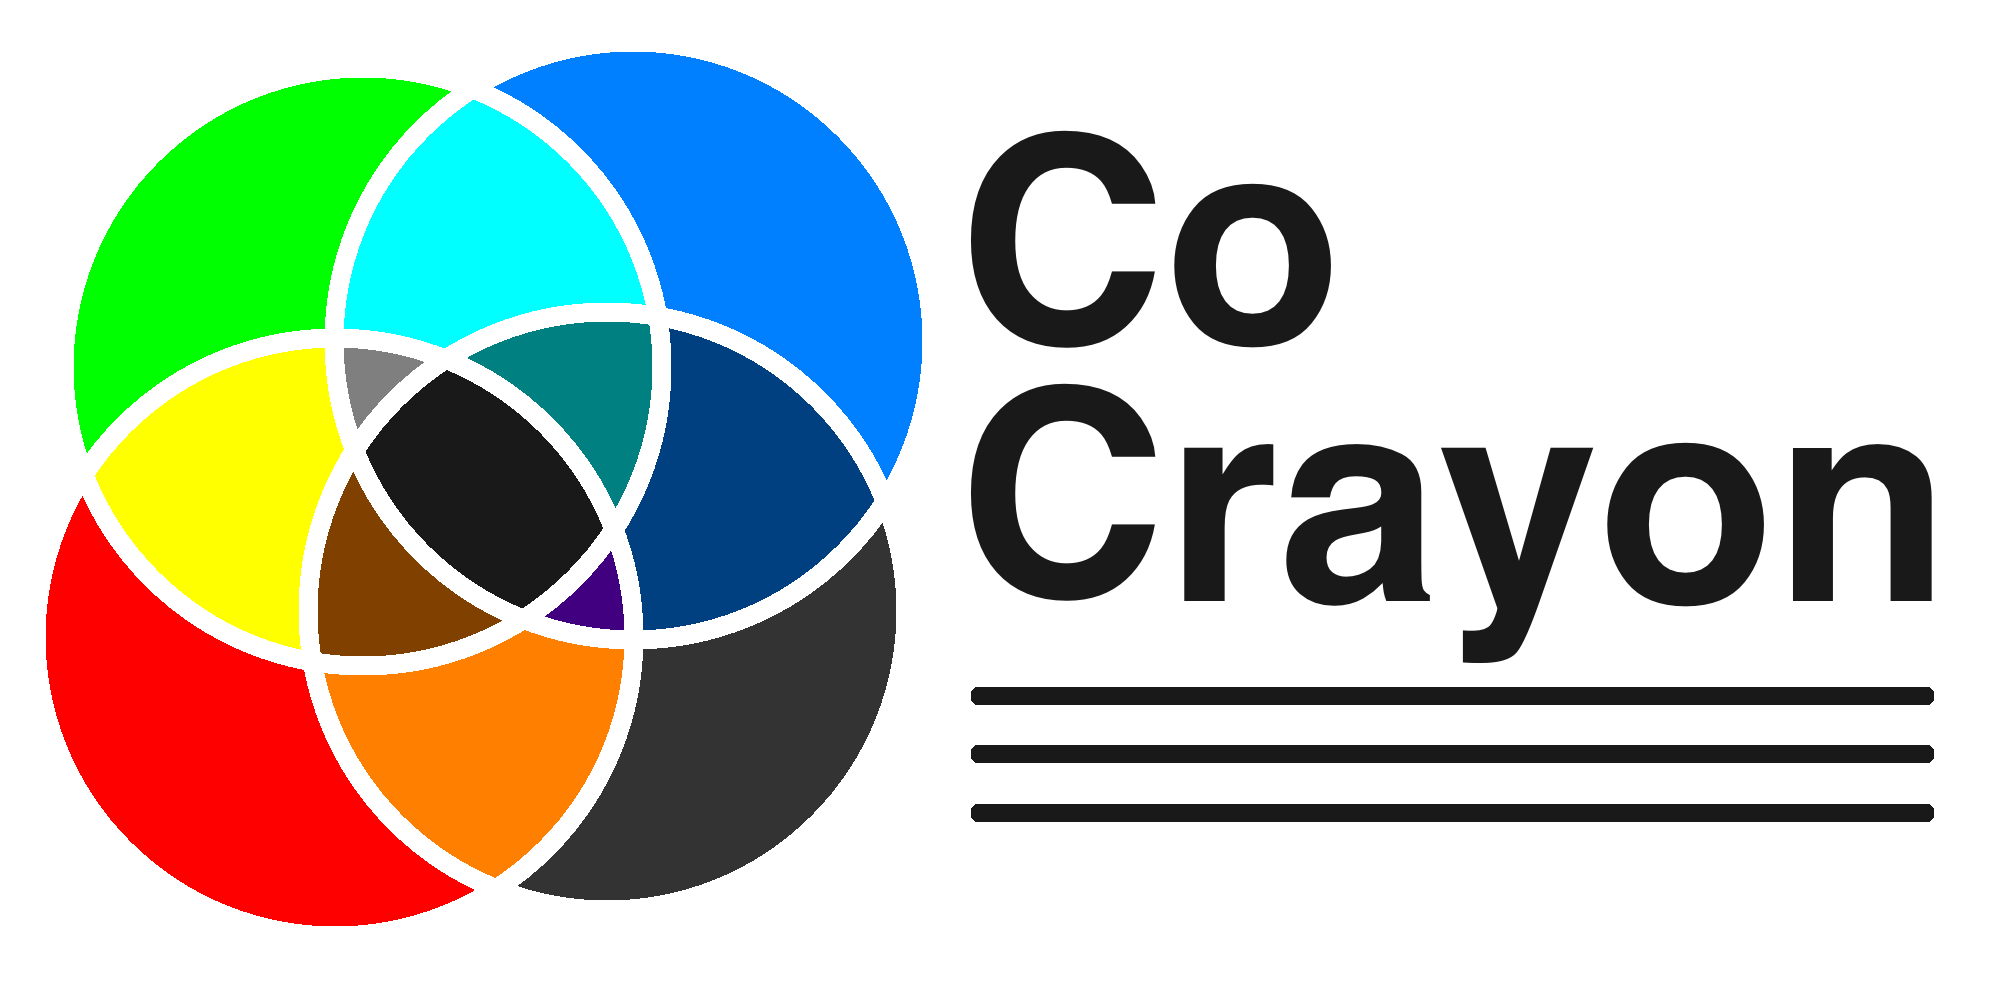
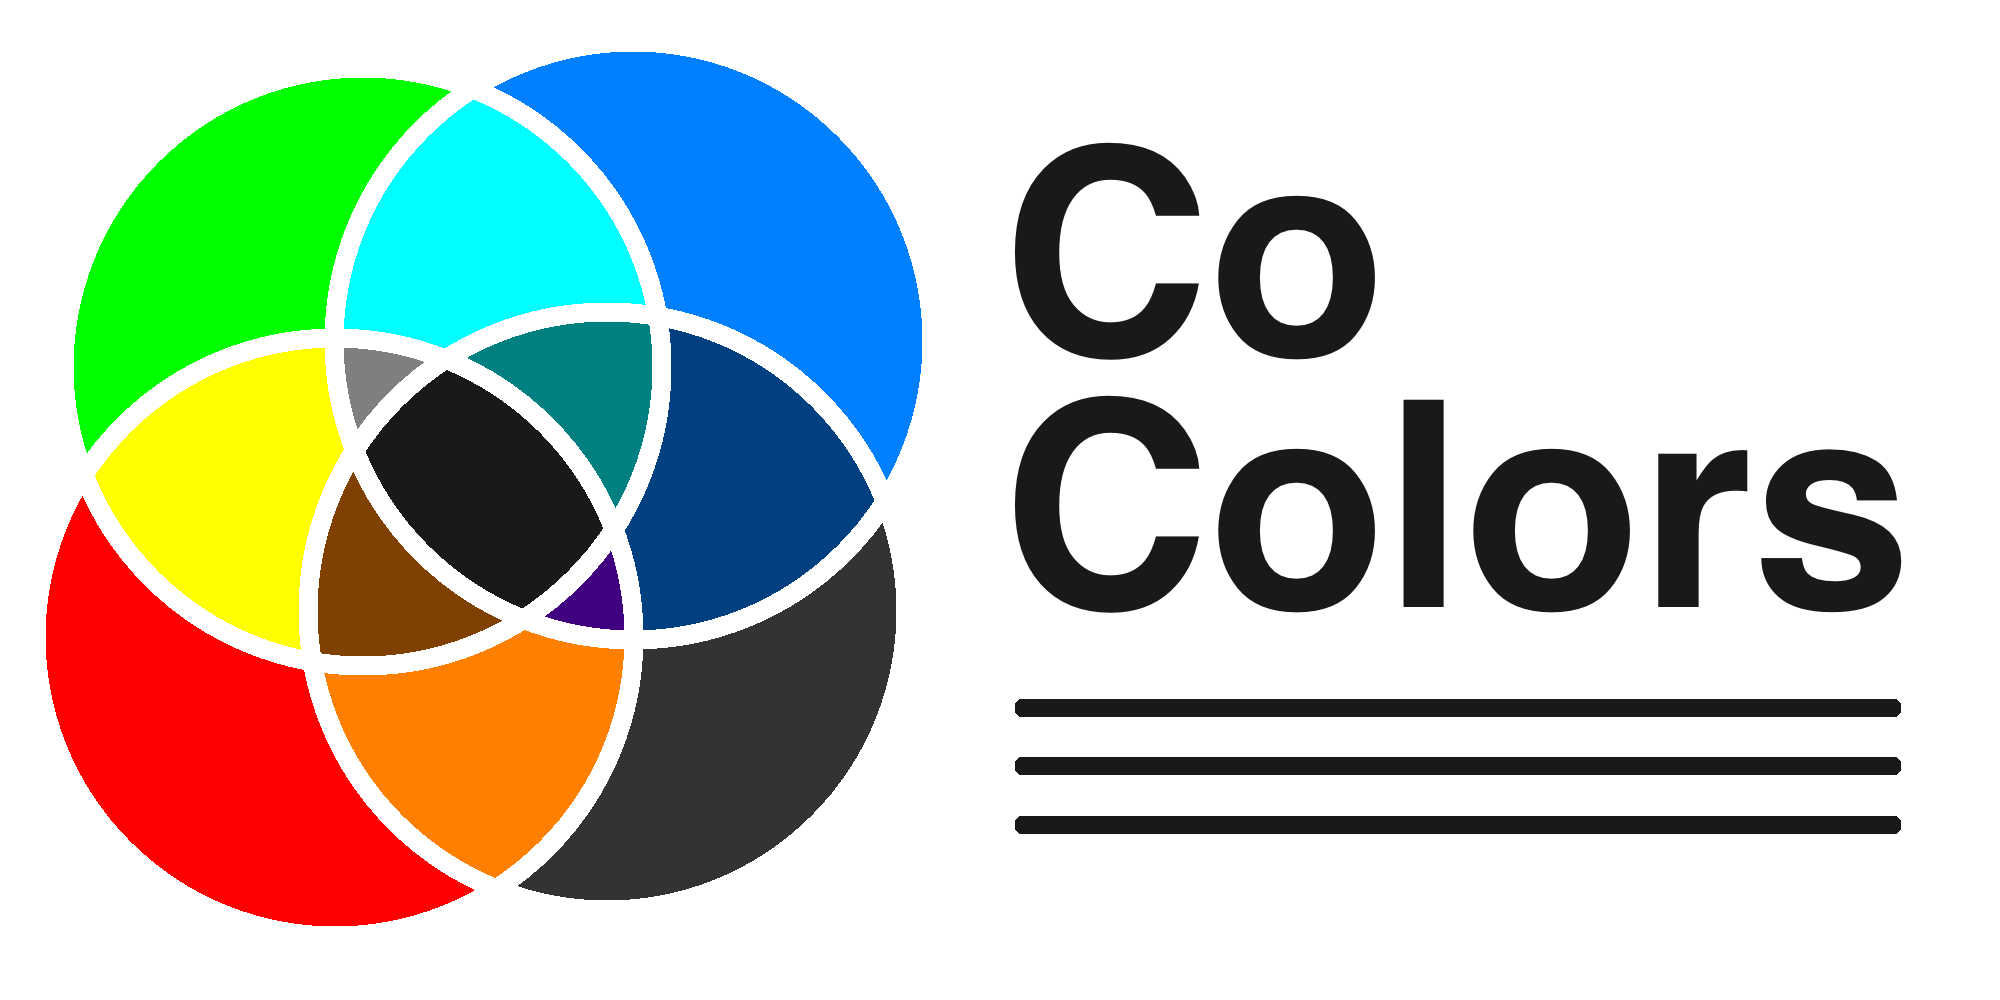
Change name to CoColors

Changed region(s): [[0.465, 0.124, 0.992, 0.775], [0.465, 0.806, 0.961, 0.837]]

diff --git a/about/index.html b/about/index.html
@@ -1,7 +1,7 @@
 <!DOCTYPE html>
 <html>
 	<head>
-		<title>CoCrayon</title>
+		<title>CoColors</title>
 		<link rel="shortcut icon" type="image/png" href="logo.png"/>
 		<script node>getAsset("font awesome")</script>node>
 		<link rel="stylesheet" type="text/css" href="about/stylesheet.css"/>
@@ -15,7 +15,7 @@
 		<div id="about">
 			<div class="header">What is this?</div>
 			<div class="details">
-				CoCrayon is a real-time collaborative drawing tool. People across the web can instantly create a canvas and fill it with color - together!
+				CoColors is a real-time collaborative drawing tool. People across the web can instantly create a canvas and fill it with color - together!
 			</div>
 			<div class="header">How do I use it?</div>
 			<div class="details">
@@ -29,13 +29,13 @@
 			</div>
 			<div class="header">How does it work?</div>
 			<div class="details">
-				CoCrayon uses the HTML <code>&lt;canvas&gt;</code> element to display everything you draw, and tracks your mouse movement to add paths into that canvas.
+				CoColors uses the HTML <code>&lt;canvas&gt;</code> element to display everything you draw, and tracks your mouse movement to add paths into that canvas.
 				<br><br>
 				The app is powered by nodeJS and the <a href="https://www.npmjs.com/package/websocket" target="_blank">websockets</a> package, which communicates between your browser and the app's server in real-time using <code>new WebSocket</code>. 
 			</div>
 			<div class="header">Can I see the code?</div>
 			<div class="details">
-				Yes! Head over to <a href="https://www.github.com/jamesbmayr/cocrayon" target="_blank">GitHub</a> to check it out!
+				Yes! Head over to <a href="https://www.github.com/jamesbmayr/cocolors" target="_blank">GitHub</a> to check it out!
 			</div>
 		</div>
 		<div id="live">

diff --git a/main/logic.js b/main/logic.js
@@ -64,13 +64,13 @@
 
 					case "meta":
 						return '<meta charset="UTF-8"/>\
-								<meta name="description" content="CoCrayon is a real-time collaborative drawing app."/>\
+								<meta name="description" content="CoColors is a real-time collaborative drawing app."/>\
 								<meta name="keywords" content="drawing,draw,art,collaborative,real-time,colors,fun,together"/>\
 								<meta name="author" content="James Mayr"/>\
-								<meta property="og:title" content="CoCrayon: a real-time collaborative drawing app"/>\
-								<meta property="og:url" content="http://www.cocrayon.herokuapp.com"/>\
-								<meta property="og:description" content="CoCrayon is a real-time collaborative drawing app."/>\
-								<meta property="og:image" content="http://www.cocrayon.herokuapp.com/banner.png"/>\
+								<meta property="og:title" content="CoColors: a real-time collaborative drawing app"/>\
+								<meta property="og:url" content="http://www.cocolors.herokuapp.com"/>\
+								<meta property="og:description" content="CoColors is a real-time collaborative drawing app."/>\
+								<meta property="og:image" content="http://www.cocolors.herokuapp.com/banner.png"/>\
 								<meta name="viewport" content="width=device-width, height=device-height, initial-scale=1.0, minimum-scale=1.0, maximum-scale=1.0, user-scalable=no"/>'
 					break
 

diff --git a/draw/index.html b/draw/index.html
@@ -1,7 +1,7 @@
 <!DOCTYPE html>
 <html>
 	<head>
-		<title>CoCrayon</title>
+		<title>CoColors</title>
 		<link rel="shortcut icon" type="image/png" href="logo.png"/>
 		<script node>getAsset("font awesome")</script>node>
 		<link rel="stylesheet" type="text/css" href="stylesheet.css"/>

diff --git a/main/_404.html b/main/_404.html
@@ -1,7 +1,7 @@
 <!DOCTYPE html>
 	<html>
 	<head>
-		<title>CoCrayon</title>
+		<title>CoColors</title>
 		<meta name="viewport" content="width=device-width, height=device-height, initial-scale=1.0, minimum-scale=1.0, maximum-scale=1.0, user-scalable=no"/>
 		<style>
 			body {

diff --git a/draw/stylesheet.css b/draw/stylesheet.css
@@ -33,6 +33,10 @@
 	}
 
 	@media screen and (max-width: 800px) {
+		body {
+			height: calc(100vh - 60px);
+		}
+
 		#canvas {
 			height: calc(100vh - 110px)
 		}
